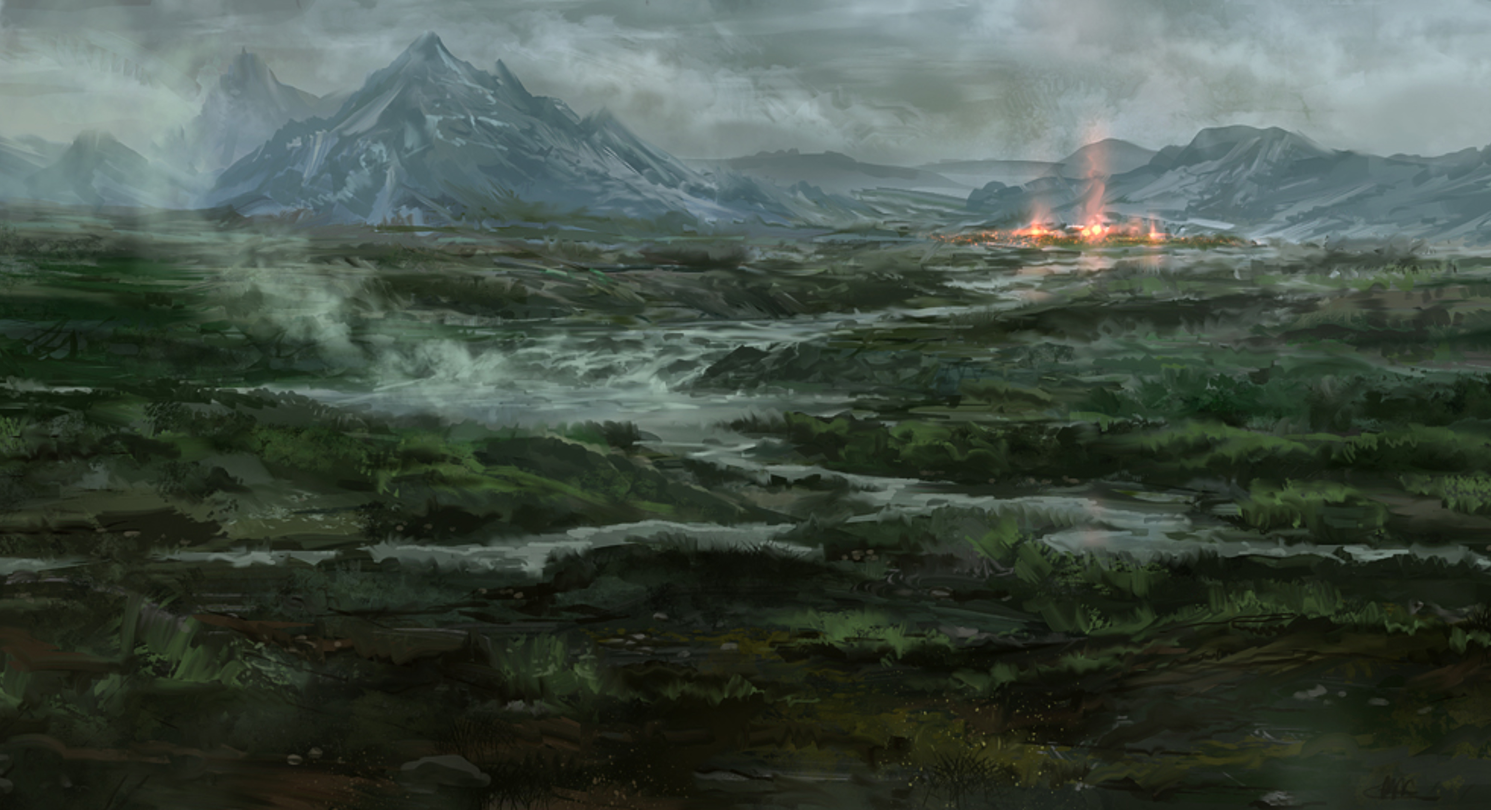
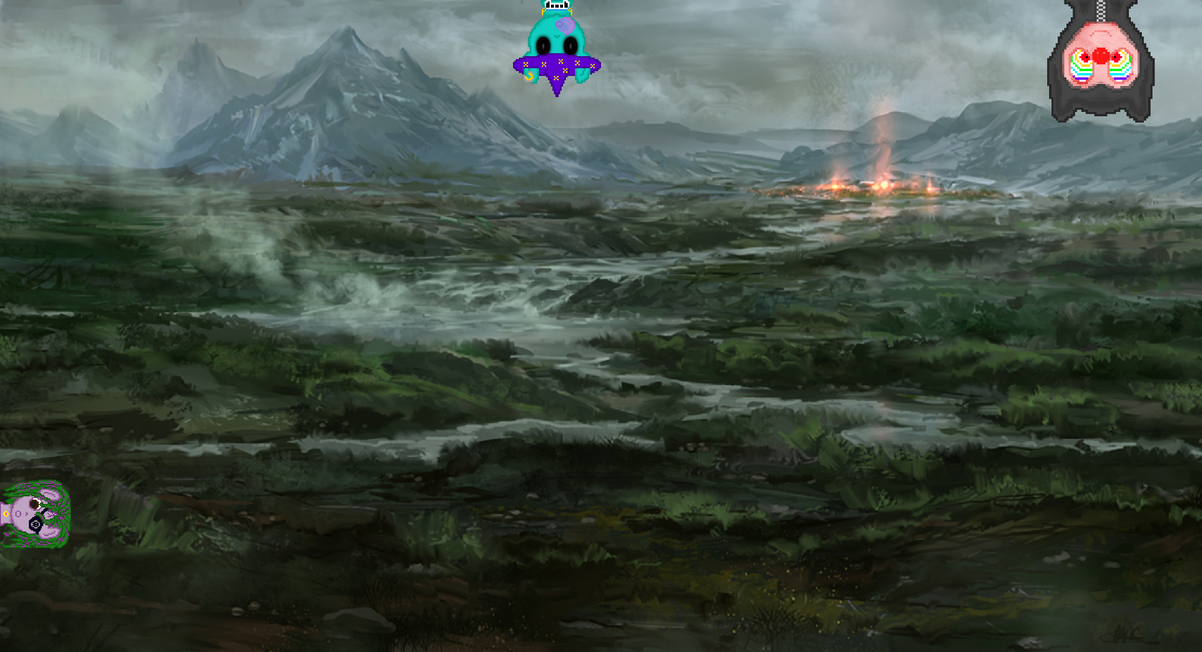
Ponypost v1.0.7 update msg sent + bg

Changed region(s): [[0.8736, 0.0, 0.9672, 0.1857], [0.4056, 0.0, 0.4992, 0.1548], [0.0, 0.7119, 0.0624, 0.8666]]

diff --git a/src/assets/sass/layout/_banner-fields.scss b/src/assets/sass/layout/_banner-fields.scss
@@ -210,9 +210,9 @@
   }
 }
 #ponypost-sent {
-  position: relative;
+  position: absolute;
   text-shadow: red 1px 1px 1px;
-  top: 447px;
+  top: 490px;
   left: 735px;
   color: #000000;
   font-weight: bold;
